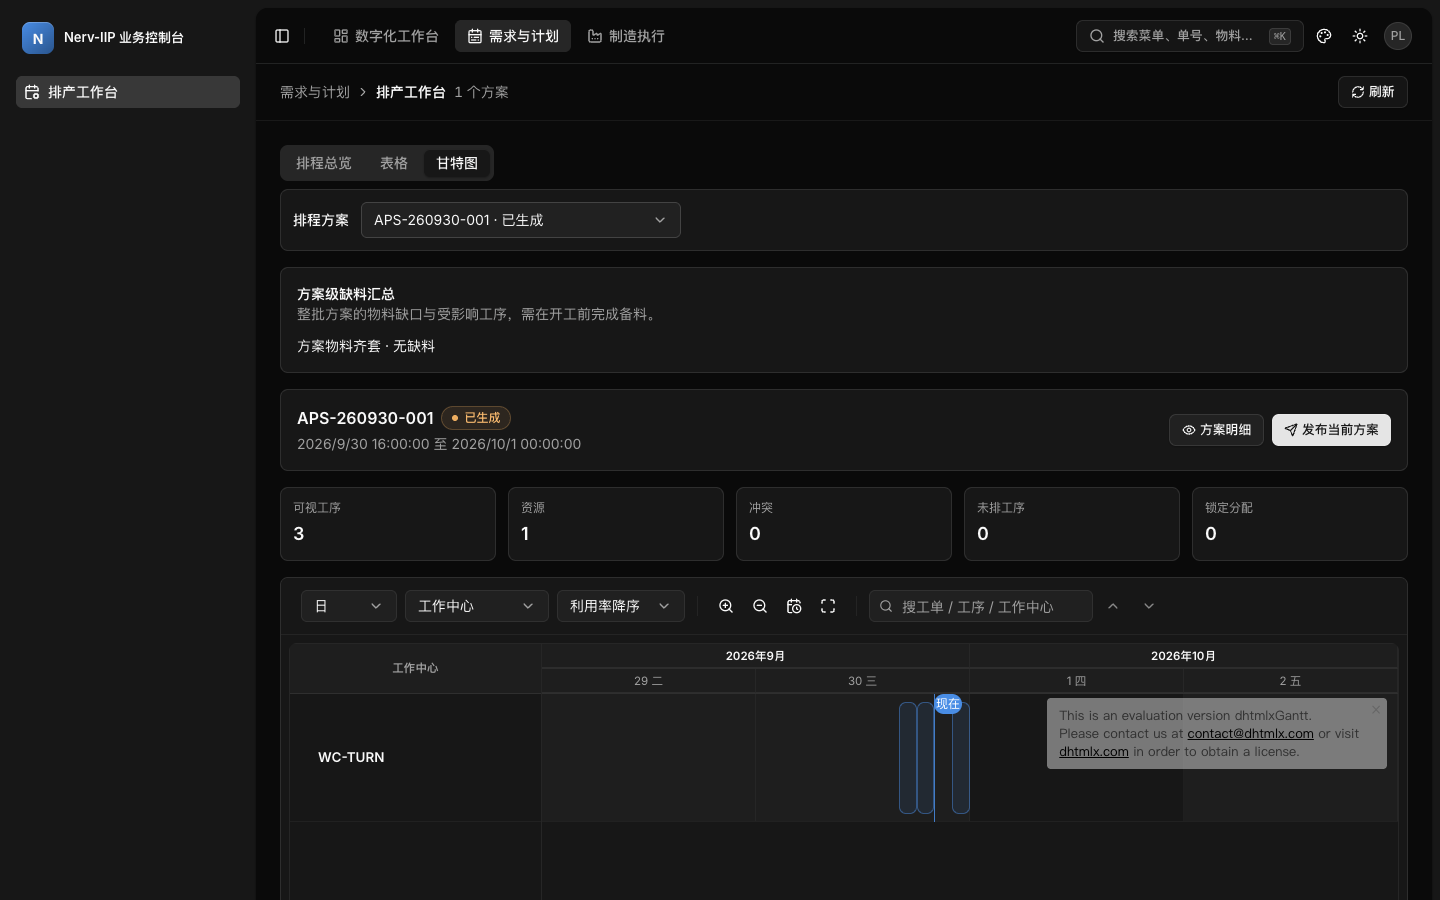
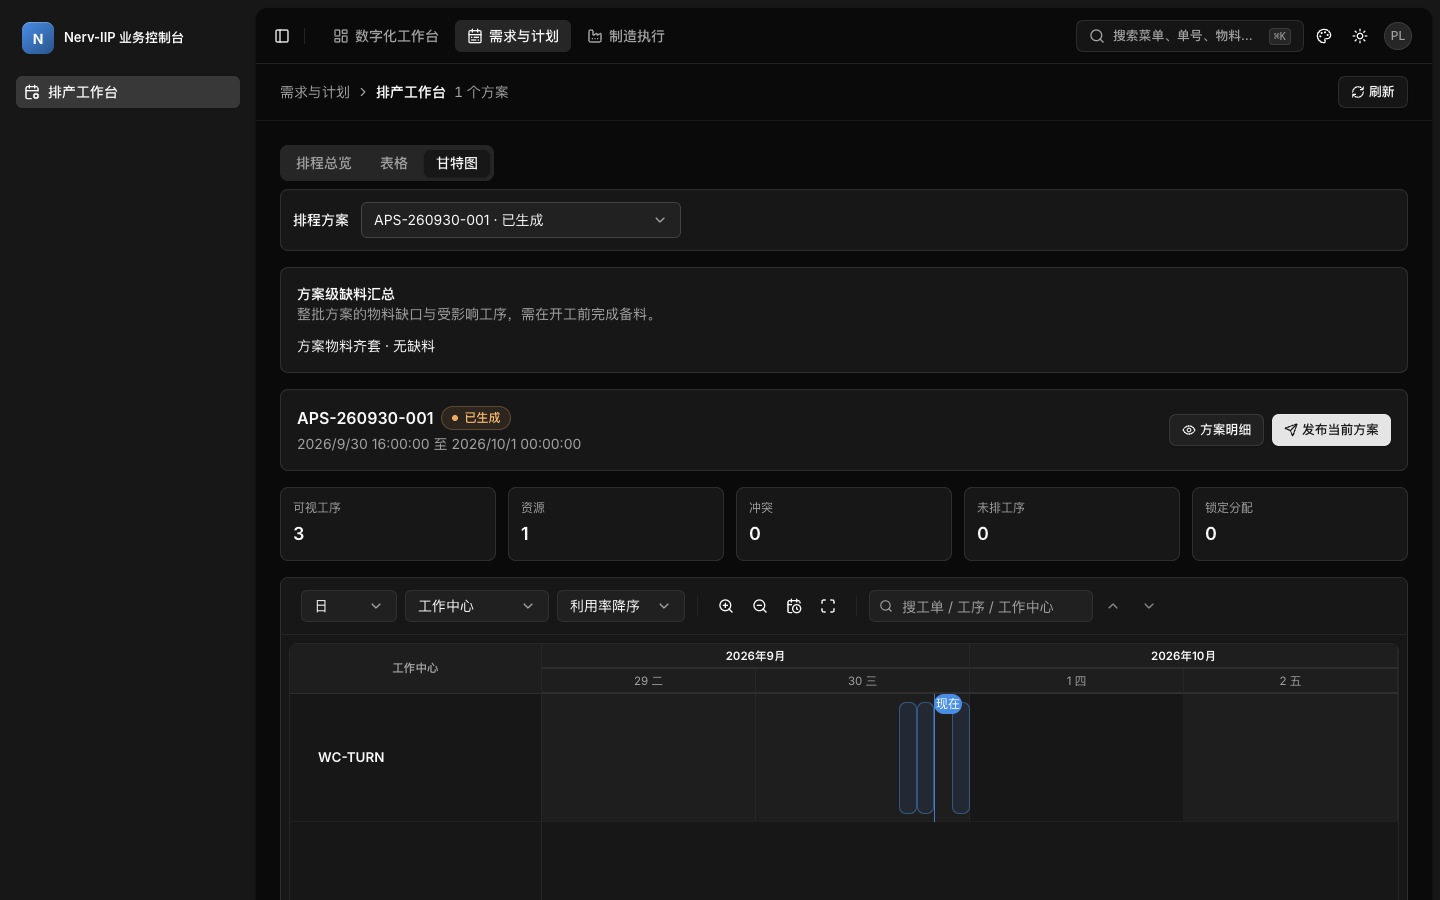
docs: 更新 #4068 最新main布局复验证据

Changed region(s): [[0.7188, 0.7778, 0.9688, 0.8711]]

diff --git a/evidence/issue-4068/fix-reverify/README.md b/evidence/issue-4068/fix-reverify/README.md
@@ -1,6 +1,6 @@
 # #4068 两项布局修复视觉复验
 
-基线 `3e1bde5e51db18c222afcfc1e65c3f06e28aa7fe`；产品 head `4c4a1e29066b9ea7ac28df23ff6830d24e4005de`。PNG 由本次工作树当前代码重新采集，逐张人工打开审视；旧验收记录仍在上级目录，不能作为本 head 新验证。
+当前运行基线 `7959d3428ade61705c879dea98e96107a787e998`；产品 head `392a1eee2d4825e4f40f6ed0a2a02b06cae3a9f9`。20 张 after PNG 已在 rebase 后重新执行并逐张亲看。before-D1/D2 是原反例基线 `3e1bde5e51db18c222afcfc1e65c3f06e28aa7fe`，未冒充当前基线 before。after PNG 由本次工作树当前代码重新采集，逐张人工打开审视；旧验收记录仍在上级目录，不能作为本 head 新验证。
 
 运行：Business Console Vite +真实 DHTMLX，HTTP fixture 沿用仓库 `e2e/issue4043-draft-feedback.spec.ts` 的同一 APS-260930-001 三工序/单资源数据。非真实后端数据或端到端发布证据。T3 preview_status/open 曾成功，但实际操作返回 `No preview automation host is available ... use a headless browser ... such as Playwright` 后，改本机 Google Chrome + Playwright；未伪造拖拽事件。
 
@@ -16,7 +16,7 @@
 
 限定：DHTMLX trial 通知会在换刻度/重绘后出现；通过正常UI尝试关闭，截图如仍存在保留事实，不改厂商通知DOM。D1动态图面缩窄后旧悬浮tooltip节点仍产生scrollWidth1283，但board/detail均在1024内；03实际详情完整，不声称全页所有悬浮层均无溢出。本次修复不扩展到厂商tooltip生命周期。初始四类反馈/未知依据完整验收在上级旧基线记录；本次只复验布局相关的正常、资源resize占用/延期反馈，不把旧截图声明成本head新证据。未复验真实后端/发布及日历/前序/未知反馈。
 
-本地门禁（相同产品内容）：fmt check通过；2文件lint通过（SchedulingPlanGantt.vue131原有unicorn warning未改）；Console build含vue-tsc通过；Console全包246files/2893tests通过；git diff --check通过。无新增CSS形状测试或产品功能。
+本地门禁（相同产品内容）：fmt check通过；2文件lint通过（SchedulingPlanGantt.vue131原有unicorn warning未改）；Console build含vue-tsc通过；旧base Console全包246files/2893tests通过；当前base Console全包正在重跑，最终结果以PR更新为准；新base Scheduling108passed/4existing skipped；git diff --check通过。无新增CSS形状测试或产品功能。
 
 文件清单（每张均人工打开）：
 
